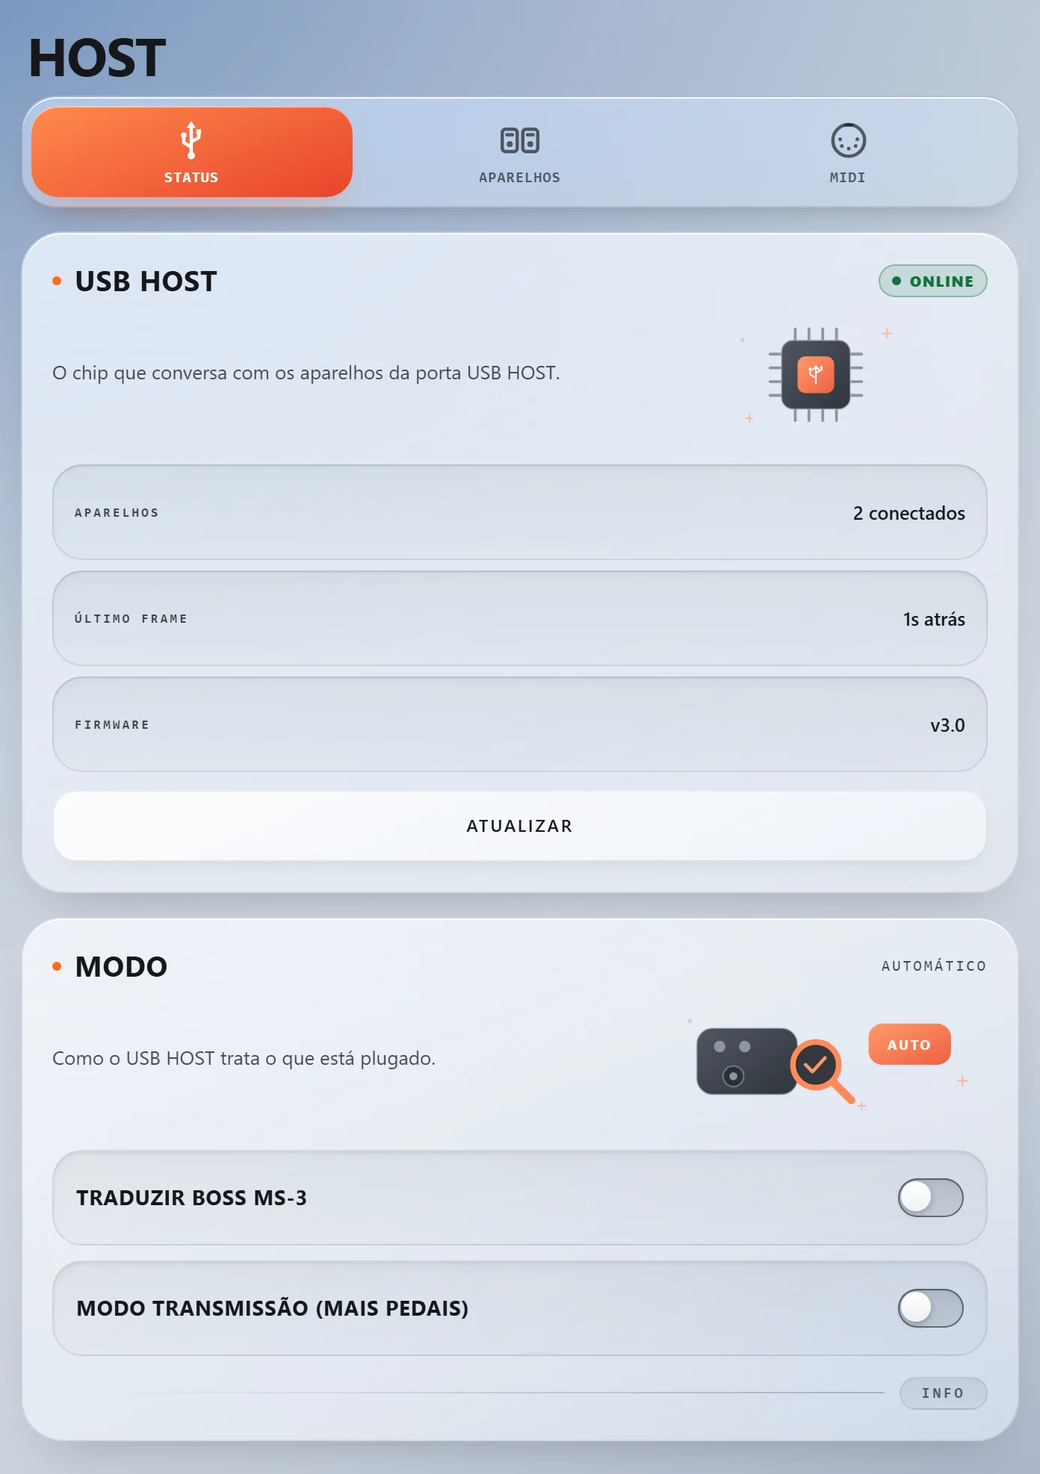
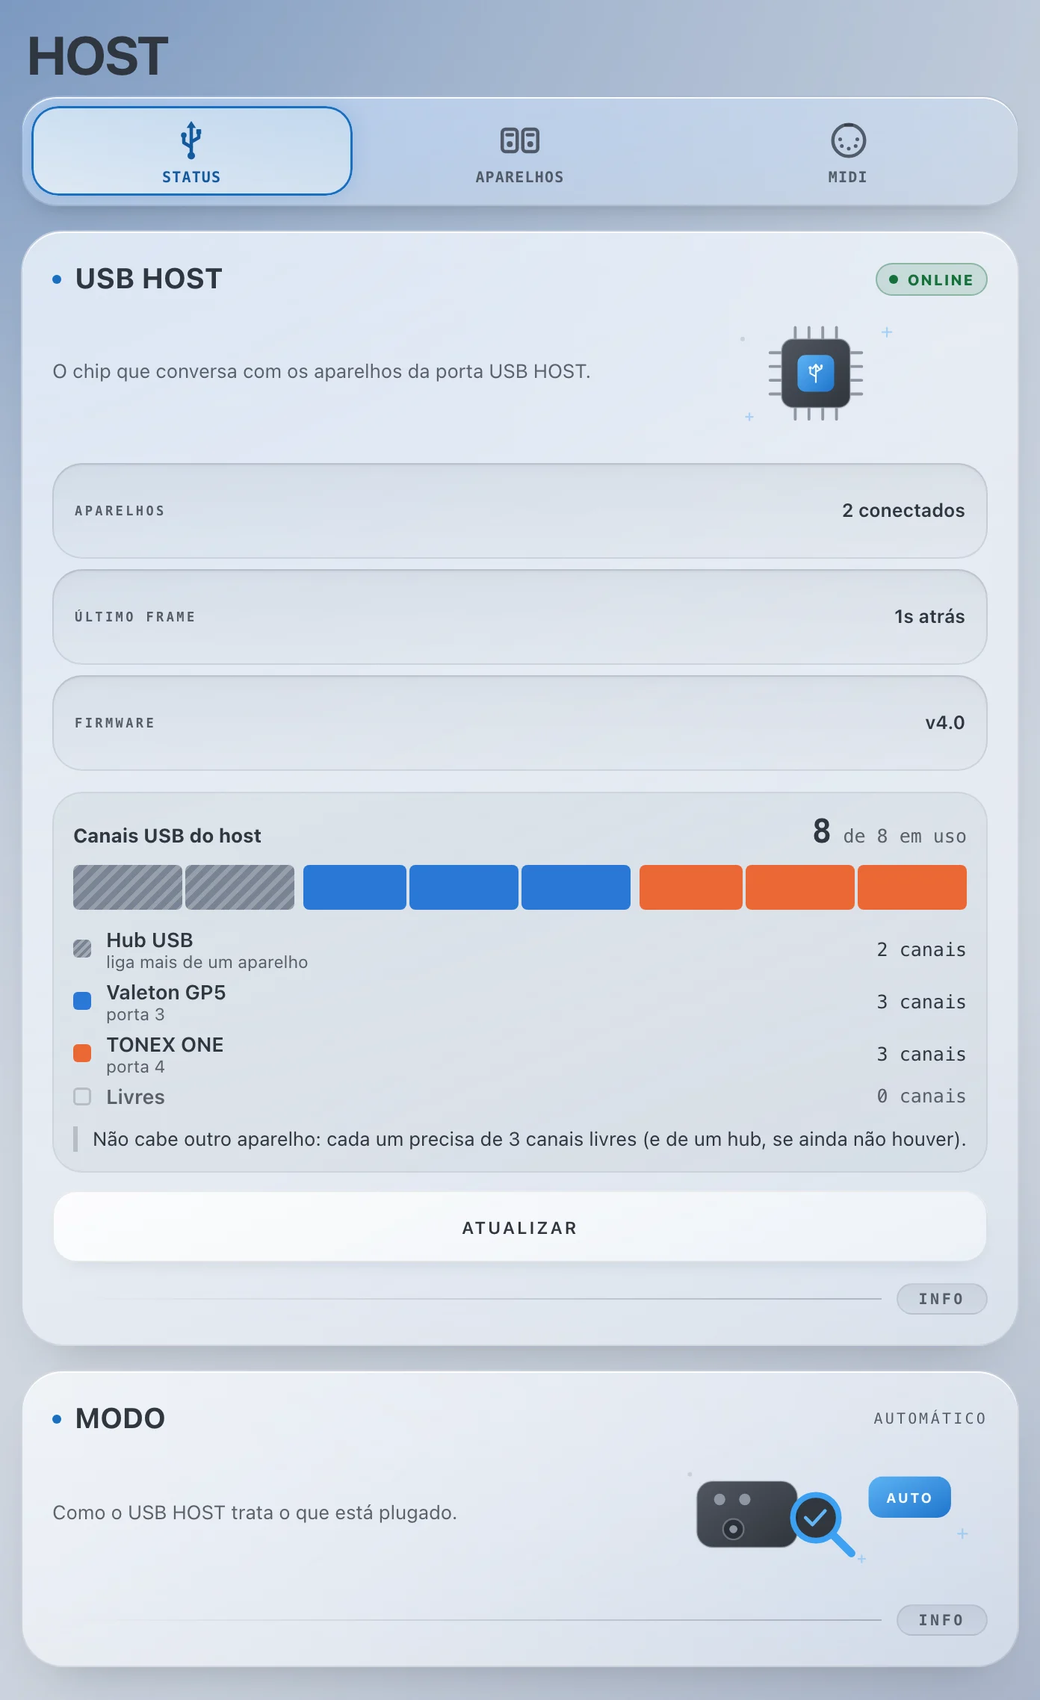
manual 2026-11-05 11:43

diff --git a/js/content.js b/js/content.js
@@ -7429,9 +7429,9 @@ const MN_CONTENT = {
         "es": "límite"
        },
        "desc": {
-        "pt": "<p>Num hub USB cabem dois aparelhos — por exemplo GP-5 + TONEX ONE. A <strong>Nano Cortex</strong> precisa de mais canais USB e funciona <strong>sozinha</strong> no USB Host.</p>",
-        "en": "<p>A USB hub fits two devices — for example GP-5 + TONEX ONE. The <strong>Nano Cortex</strong> needs more USB channels and works <strong>on its own</strong> on the USB Host.</p>",
-        "es": "<p>En un hub USB caben dos aparatos — por ejemplo GP-5 + TONEX ONE. La <strong>Nano Cortex</strong> necesita más canales USB y funciona <strong>sola</strong> en el USB Host.</p>"
+        "pt": "<p>Num hub USB cabem dois aparelhos — por exemplo GP-5 + TONEX ONE. A <strong>Nano Cortex</strong> precisa de mais canais USB e funciona <strong>sozinha</strong> no USB Host. Em CONFIGURAÇÕES › HOST › STATUS, uma barra mostra quantos canais cada aparelho ocupa.</p>",
+        "en": "<p>A USB hub fits two devices — for example GP-5 + TONEX ONE. The <strong>Nano Cortex</strong> needs more USB channels and works <strong>on its own</strong> on the USB Host. In SETTINGS › HOST › STATUS, a bar shows how many channels each device takes.</p>",
+        "es": "<p>En un hub USB caben dos aparatos — por ejemplo GP-5 + TONEX ONE. La <strong>Nano Cortex</strong> necesita más canales USB y funciona <strong>sola</strong> en el USB Host. En CONFIGURACIÓN › HOST › ESTADO, una barra muestra cuántos canales ocupa cada equipo.</p>"
        }
       }
      ]
@@ -7595,9 +7595,9 @@ const MN_CONTENT = {
      ],
      "notes": [
       {
-       "pt": "Com o <strong>Modo transmissão</strong> do USB Host ligado (CONFIGURAÇÕES › HOST › STATUS), o editor da GP-5 fica indisponível: sem ele o host não consegue ler o preset.",
-       "en": "With the USB Host's <strong>Transmit-only mode</strong> on (SETTINGS › HOST › STATUS), the GP-5 editor is unavailable: in that mode the host can't read the preset.",
-       "es": "Con el <strong>Modo transmisión</strong> del USB Host activado (CONFIGURACIÓN › HOST › ESTADO), el editor de la GP-5 no está disponible: en ese modo el host no puede leer el preset."
+       "pt": "Num USB Host antigo que ainda tenha o <strong>Modo transmissão</strong> ligado, o editor da GP-5 fica indisponível: CONFIGURAÇÕES › HOST › STATUS avisa e tem o botão para desligá-lo. A partir do USB Host 4.0 esse modo não existe mais.",
+       "en": "On an older USB Host that still has <strong>Transmit-only mode</strong> on, the GP-5 editor is unavailable: SETTINGS › HOST › STATUS warns you and has the button to turn it off. From USB Host 4.0 on, that mode no longer exists.",
+       "es": "En un USB Host antiguo que todavía tenga el <strong>Modo transmisión</strong> activado, el editor de la GP-5 no está disponible: CONFIGURACIÓN › HOST › ESTADO lo avisa y tiene el botón para apagarlo. Desde el USB Host 4.0 ese modo ya no existe."
       }
      ]
     },
@@ -7963,9 +7963,9 @@ const MN_CONTENT = {
         "es": "guía"
        },
        "desc": {
-        "pt": "<p>Confira: (1) a tela PRESET está em modo PRESET (os atalhos não aparecem no LIVE); (2) o editor está conectado à controladora, não no modo offline; (3) o aparelho aparece em <strong>CONFIGURAÇÕES › HOST › APARELHOS</strong> como conectado; (4) o modelo da placa é BFMIDI-3 ou BFMIDI-S3; (5) na GP-5, o <strong>Modo transmissão</strong> está desligado.</p>",
-        "en": "<p>Check: (1) the PRESET screen is in PRESET mode (shortcuts don’t show in LIVE); (2) the editor is connected to the controller, not in offline mode; (3) the device shows up as connected in <strong>SETTINGS › HOST › DEVICES</strong>; (4) the board model is BFMIDI-3 or BFMIDI-S3; (5) for the GP-5, <strong>Transmit-only mode</strong> is off.</p>",
-        "es": "<p>Revisa: (1) la pantalla PRESET está en modo PRESET (los atajos no aparecen en LIVE); (2) el editor está conectado a la controladora, no en el modo offline; (3) el equipo aparece como conectado en <strong>CONFIGURACIÓN › HOST › APARATOS</strong>; (4) el modelo de la placa es BFMIDI-3 o BFMIDI-S3; (5) en la GP-5, el <strong>Modo transmisión</strong> está apagado.</p>"
+        "pt": "<p>Confira: (1) a tela PRESET está em modo PRESET (os atalhos não aparecem no LIVE); (2) o editor está conectado à controladora, não no modo offline; (3) o aparelho aparece em <strong>CONFIGURAÇÕES › HOST › APARELHOS</strong> como conectado; (4) o modelo da placa é BFMIDI-3 ou BFMIDI-S3; (5) na GP-5 com um USB Host antigo, o <strong>Modo transmissão</strong> está desligado (CONFIGURAÇÕES › HOST › STATUS avisa).</p>",
+        "en": "<p>Check: (1) the PRESET screen is in PRESET mode (shortcuts don’t show in LIVE); (2) the editor is connected to the controller, not in offline mode; (3) the device shows up as connected in <strong>SETTINGS › HOST › DEVICES</strong>; (4) the board model is BFMIDI-3 or BFMIDI-S3; (5) for the GP-5 with an older USB Host, <strong>Transmit-only mode</strong> is off (SETTINGS › HOST › STATUS warns you).</p>",
+        "es": "<p>Revisa: (1) la pantalla PRESET está en modo PRESET (los atajos no aparecen en LIVE); (2) el editor está conectado a la controladora, no en el modo offline; (3) el equipo aparece como conectado en <strong>CONFIGURACIÓN › HOST › APARATOS</strong>; (4) el modelo de la placa es BFMIDI-3 o BFMIDI-S3; (5) en la GP-5 con un USB Host antiguo, el <strong>Modo transmisión</strong> está apagado (CONFIGURACIÓN › HOST › ESTADO lo avisa).</p>"
        }
       },
       {
@@ -8294,9 +8294,9 @@ const MN_CONTENT = {
         "es": "engranaje"
        },
        "desc": {
-        "pt": "<p>A engrenagem no fim de cada linha manda um CC naquele canal <strong>AO ENTRAR</strong> e <strong>AO SAIR</strong> do modo LIVE (valores ajustáveis). Serve para aparelhos com “modo cena” e “modo stomp” acompanharem a controladora.</p>",
-        "en": "<p>The gear at the end of each row sends a CC on that channel when entering (<strong>ON ENTER</strong>) and leaving (<strong>ON EXIT</strong>) LIVE mode (adjustable values). It lets devices with a “scene mode” and a “stomp mode” follow the controller.</p>",
-        "es": "<p>El engranaje al final de cada fila envía un CC en ese canal <strong>AL ENTRAR</strong> y <strong>AL SALIR</strong> del modo LIVE (valores ajustables). Sirve para que los equipos con “modo escena” y “modo stomp” acompañen a la controladora.</p>"
+        "pt": "<p>A engrenagem no fim de cada linha manda um CC naquele canal <strong>AO ENTRAR</strong> e <strong>AO SAIR</strong> do modo LIVE (valores ajustáveis). Serve para aparelhos com “modo cena” e “modo stomp” acompanharem a controladora. A lista de CC mostra os nomes do aparelho escolhido naquele canal.</p>",
+        "en": "<p>The gear at the end of each row sends a CC on that channel when entering (<strong>ON ENTER</strong>) and leaving (<strong>ON EXIT</strong>) LIVE mode (adjustable values). It lets devices with a “scene mode” and a “stomp mode” follow the controller. The CC list shows the names of the device chosen on that channel.</p>",
+        "es": "<p>El engranaje al final de cada fila envía un CC en ese canal <strong>AL ENTRAR</strong> y <strong>AL SALIR</strong> del modo LIVE (valores ajustables). Sirve para que los equipos con “modo escena” y “modo stomp” acompañen a la controladora. La lista de CC muestra los nombres del equipo elegido en ese canal.</p>"
        }
       },
       {
@@ -9546,16 +9546,16 @@ const MN_CONTENT = {
         "es": "pestaña ESTADO"
        },
        "desc": {
-        "pt": "<p>O USB Host reconhece sozinho o que foi plugado: pedais MIDI USB comuns e a IK TONEX ONE funcionam juntos, até <strong>dois aparelhos</strong> num hub. Não há modo para escolher.</p>",
-        "en": "<p>The USB Host recognizes what you plugged in on its own: regular USB MIDI pedals and the IK TONEX ONE work together, up to <strong>two devices</strong> on a hub. There's no mode to choose.</p>",
-        "es": "<p>El USB Host reconoce solo lo que conectaste: los pedales MIDI USB comunes y la IK TONEX ONE funcionan juntos, hasta <strong>dos equipos</strong> en un hub. No hay modo que elegir.</p>"
+        "pt": "<p>O USB Host reconhece sozinho o que foi plugado: pedais MIDI USB comuns e a IK TONEX ONE funcionam juntos, até <strong>dois aparelhos</strong> num hub. Não há modo para escolher. O <strong>BOSS MS-3</strong> também é reconhecido sozinho, e o host traduz os comandos para o formato da Boss.</p>",
+        "en": "<p>The USB Host recognizes what you plugged in on its own: regular USB MIDI pedals and the IK TONEX ONE work together, up to <strong>two devices</strong> on a hub. There's no mode to choose. The <strong>BOSS MS-3</strong> is recognized on its own too, and the host translates the commands into Boss's format.</p>",
+        "es": "<p>El USB Host reconoce solo lo que conectaste: los pedales MIDI USB comunes y la IK TONEX ONE funcionan juntos, hasta <strong>dos equipos</strong> en un hub. No hay modo que elegir. El <strong>BOSS MS-3</strong> también se reconoce solo, y el host traduce los comandos al formato de Boss.</p>"
        }
       },
       {
        "name": {
-        "pt": "Traduzir Boss MS-3",
-        "en": "Translate Boss MS-3",
-        "es": "Traducir Boss MS-3"
+        "pt": "Canais USB",
+        "en": "USB channels",
+        "es": "Canales USB"
        },
        "type": {
         "pt": "aba STATUS",
@@ -9563,26 +9563,9 @@ const MN_CONTENT = {
         "es": "pestaña ESTADO"
        },
        "desc": {
-        "pt": "<p>O MS-3 (e a Katana) não entendem CC de parâmetro comum: o host converte para o formato da Boss. Ligue só com eles plugados.</p>",
-        "en": "<p>The MS-3 (and the Katana) don't understand regular parameter CCs: the host converts them to Boss's format. Only turn it on with them plugged in.</p>",
-        "es": "<p>El MS-3 (y el Katana) no entienden los CC de parámetro comunes: el host los convierte al formato de Boss. Actívalo solo con ellos conectados.</p>"
-       }
-      },
-      {
-       "name": {
-        "pt": "Modo transmissão (mais pedais)",
-        "en": "Transmit-only mode (more pedals)",
-        "es": "Modo transmisión (más pedales)"
-       },
-       "type": {
-        "pt": "aba STATUS",
-        "en": "STATUS tab",
-        "es": "pestaña ESTADO"
-       },
-       "desc": {
-        "pt": "<p>Deixa o host mandar MIDI para até <strong>quatro</strong> pedais num hub, em vez de dois — em troca, nada volta dos pedais: afinador, nome do rig, SEGUIR O KEMPER e o editor da GP-5 param de funcionar. Com uma TONEX ONE plugada o limite continua dois.</p>",
-        "en": "<p>Lets the host send MIDI to up to <strong>four</strong> pedals on a hub, instead of two — in exchange, nothing comes back from the pedals: the tuner, the rig name, FOLLOW THE KEMPER and the GP-5 editor stop working. With a TONEX ONE plugged in, the limit stays at two.</p>",
-        "es": "<p>Permite que el host envíe MIDI a hasta <strong>cuatro</strong> pedales en un hub, en lugar de dos — a cambio, nada vuelve de los pedales: el afinador, el nombre del rig, SEGUIR EL KEMPER y el editor de la GP-5 dejan de funcionar. Con una TONEX ONE conectada, el límite sigue siendo dos.</p>"
+        "pt": "<p>Uma barra com os <strong>8 canais USB</strong> do host e quanto cada aparelho ocupa: o hub 2, um pedal comum ou uma TONEX ONE 3, a Nano Cortex 4. Embaixo, os canais livres e o que ainda cabe. É por isso que num hub cabem dois aparelhos de 3 canais.</p>",
+        "en": "<p>A bar with the host's <strong>8 USB channels</strong> and how many each device takes: the hub 2, a regular pedal or a TONEX ONE 3, the Nano Cortex 4. Below it, the free channels and what still fits. That's why a hub fits two 3-channel devices.</p>",
+        "es": "<p>Una barra con los <strong>8 canales USB</strong> del host y cuántos ocupa cada equipo: el hub 2, un pedal común o una TONEX ONE 3, la Nano Cortex 4. Debajo, los canales libres y lo que todavía cabe. Por eso en un hub caben dos equipos de 3 canales.</p>"
        }
       },
       {
@@ -9597,9 +9580,9 @@ const MN_CONTENT = {
         "es": "pestaña APARATOS"
        },
        "desc": {
-        "pt": "<p>Fabricante, produto, porta do hub, ID USB, status e o <strong>canal</strong> que aquele aparelho escuta. Cada TONEX ONE tem o seu canal; os pedais MIDI comuns dividem um filtro. GP-5, TONEX ONE e Nano Cortex ganham o botão <strong>EDITAR PRESET</strong>.</p><p>Se o filtro deixa passar só um canal e o aparelho está em outro no Modo Amigável (ou os seus comandos saem em outro), o card avisa que nada chega a ele e oferece <strong>AJUSTAR O FILTRO PARA O CANAL n</strong>.</p>",
-        "en": "<p>Manufacturer, product, hub port, USB ID, status and the <strong>channel</strong> that device listens on. Each TONEX ONE has its own channel; regular MIDI pedals share one filter. GP-5, TONEX ONE and Nano Cortex get the <strong>EDIT PRESET</strong> button.</p><p>If the filter only lets one channel through and the device is on another one in Friendly Mode (or your commands go out on another one), the card warns that nothing reaches it and offers <strong>SET THE FILTER TO CHANNEL n</strong>.</p>",
-        "es": "<p>Fabricante, producto, puerto del hub, ID USB, estado y el <strong>canal</strong> que escucha ese equipo. Cada TONEX ONE tiene su propio canal; los pedales MIDI comunes comparten un filtro. GP-5, TONEX ONE y Nano Cortex tienen el botón <strong>EDITAR PRESET</strong>.</p><p>Si el filtro deja pasar un solo canal y el equipo está en otro en el Modo Amigable (o tus comandos salen en otro), la tarjeta avisa que no le llega nada y ofrece <strong>AJUSTAR EL FILTRO AL CANAL n</strong>.</p>"
+        "pt": "<p>Fabricante, produto, porta do hub, ID USB, status e o <strong>canal</strong> que aquele aparelho escuta. <strong>Cada aparelho tem o seu canal</strong>: mudar o da GP-5 não mexe no de outro pedal. O canal fica guardado pelo modelo do aparelho — dois pedais iguais dividem o mesmo canal —, e o pedal que nunca teve um canal escolhido segue o filtro padrão. Com um USB Host anterior ao 4.0, os pedais MIDI comuns dividem um filtro só, e o card avisa. GP-5, TONEX ONE e Nano Cortex ganham o botão <strong>EDITAR PRESET</strong>.</p><p>Se o filtro deixa passar só um canal e o aparelho está em outro no Modo Amigável (ou os seus comandos saem em outro), o card avisa que nada chega a ele e oferece <strong>AJUSTAR O FILTRO PARA O CANAL n</strong>.</p>",
+        "en": "<p>Manufacturer, product, hub port, USB ID, status and the <strong>channel</strong> that device listens on. <strong>Each device has its own channel</strong>: changing the GP-5's doesn't touch another pedal's. The channel is kept by device model — two identical pedals share the same channel —, and a pedal that never had a channel chosen follows the default filter. With a USB Host older than 4.0, regular MIDI pedals share a single filter, and the card says so. GP-5, TONEX ONE and Nano Cortex get the <strong>EDIT PRESET</strong> button.</p><p>If the filter only lets one channel through and the device is on another one in Friendly Mode (or your commands go out on another one), the card warns that nothing reaches it and offers <strong>SET THE FILTER TO CHANNEL n</strong>.</p>",
+        "es": "<p>Fabricante, producto, puerto del hub, ID USB, estado y el <strong>canal</strong> que escucha ese equipo. <strong>Cada equipo tiene su propio canal</strong>: cambiar el de la GP-5 no toca el de otro pedal. El canal se guarda por modelo del equipo — dos pedales iguales comparten el mismo canal —, y el pedal que nunca tuvo un canal elegido sigue el filtro predeterminado. Con un USB Host anterior a la 4.0, los pedales MIDI comunes comparten un solo filtro, y la tarjeta lo avisa. GP-5, TONEX ONE y Nano Cortex tienen el botón <strong>EDITAR PRESET</strong>.</p><p>Si el filtro deja pasar un solo canal y el equipo está en otro en el Modo Amigable (o tus comandos salen en otro), la tarjeta avisa que no le llega nada y ofrece <strong>AJUSTAR EL FILTRO AL CANAL n</strong>.</p>"
        }
       },
       {
@@ -9630,6 +9613,11 @@ const MN_CONTENT = {
        "pt": "A Nano Cortex funciona sozinha no USB Host: ela não cabe num hub junto com outro aparelho.",
        "en": "The Nano Cortex works on its own on the USB Host: it doesn't fit on a hub alongside another device.",
        "es": "La Nano Cortex funciona sola en el USB Host: no cabe en un hub junto con otro equipo."
+      },
+      {
+       "pt": "Desde o USB Host 4.0, a <strong>Hotone Ampero II Stomp</strong> funciona ligada direto na porta USB HOST, sem hub.",
+       "en": "Since USB Host 4.0, the <strong>Hotone Ampero II Stomp</strong> works plugged straight into the USB HOST port, without a hub.",
+       "es": "Desde el USB Host 4.0, la <strong>Hotone Ampero II Stomp</strong> funciona conectada directo al puerto USB HOST, sin hub."
       }
      ]
     },
@@ -10602,9 +10590,9 @@ const MN_CONTENT = {
       },
       {
        "name": {
-        "pt": "BOSS MS-3 e Katana",
-        "en": "BOSS MS-3 and Katana",
-        "es": "BOSS MS-3 y Katana"
+        "pt": "BOSS MS-3",
+        "en": "BOSS MS-3",
+        "es": "BOSS MS-3"
        },
        "type": {
         "pt": "integração",
@@ -10612,9 +10600,9 @@ const MN_CONTENT = {
         "es": "integración"
        },
        "desc": {
-        "pt": "<p>Com <strong>Traduzir Boss MS-3</strong> ligado (CONFIGURAÇÕES › HOST › STATUS), o USB Host converte os comandos para o formato próprio da Boss.</p>",
-        "en": "<p>With <strong>Translate Boss MS-3</strong> turned on (SETTINGS › HOST › STATUS), the USB Host converts commands into Boss's own format.</p>",
-        "es": "<p>Con <strong>Traducir Boss MS-3</strong> activado (CONFIGURACIÓN › HOST › ESTADO), el USB Host convierte los comandos al formato propio de Boss.</p>"
+        "pt": "<p>O MS-3 não entende CC de parâmetro comum. Plugado no USB Host, ele é reconhecido sozinho e o host converte os comandos para o formato próprio da Boss — não há chave para ligar. Outros aparelhos Roland e BOSS, como a Katana, recebem os CC e PC como qualquer pedal comum. Exige o USB Host 4.0.</p>",
+        "en": "<p>The MS-3 doesn't understand regular parameter CCs. Plugged into the USB Host, it's recognized on its own and the host converts the commands into Boss's own format — there's no switch to turn on. Other Roland and BOSS devices, such as the Katana, get CCs and PCs like any regular pedal. Requires USB Host 4.0.</p>",
+        "es": "<p>El MS-3 no entiende los CC de parámetro comunes. Conectado al USB Host, se reconoce solo y el host convierte los comandos al formato propio de Boss — no hay interruptor que activar. Otros equipos Roland y BOSS, como el Katana, reciben los CC y PC como cualquier pedal común. Requiere el USB Host 4.0.</p>"
        }
       }
      ],
@@ -10652,9 +10640,9 @@ const MN_CONTENT = {
         "es": "guía"
        },
        "desc": {
-        "pt": "<p>1. O cabo vai da BFMiDi para a pedaleira (MIDI OUT → MIDI IN)?<br>2. O canal do preset é o que a pedaleira escuta?<br>3. Use o <strong>DISPARO MIDI</strong> em CONFIGURAÇÕES › TESTES › DISPARO: se ali funciona, o problema está no preset; se nem ali, no cabo ou no aparelho. Cabo TRS? Nas placas com entrada EXT SW, teste o cabo em CONFIGURAÇÕES › TESTES › HARDWARE › <strong>CABO</strong>.<br>4. A pedaleira perde as primeiras mensagens depois de trocar de preset? Use os <strong>TEMPOS DE DISPARO</strong> em CONFIGURAÇÕES › HARDWARE › TEMPOS.</p>",
-        "en": "<p>1. Does the cable go from the BFMiDi to the effects unit (MIDI OUT → MIDI IN)?<br>2. Is the preset's channel the one the effects unit listens to?<br>3. Use <strong>MIDI SEND</strong> in SETTINGS › TESTS › SEND: if it works there, the problem is in the preset; if it doesn't work even there, it's the cable or the device. TRS cable? On boards with an EXT SW input, test the cable in SETTINGS › TESTS › HARDWARE › <strong>CABLE</strong>.<br>4. Does the effects unit miss the first messages after a preset change? Use <strong>SEND TIMING</strong> in SETTINGS › HARDWARE › TIMING.</p>",
-        "es": "<p>1. ¿El cable va de la BFMiDi a la pedalera (MIDI OUT → MIDI IN)?<br>2. ¿El canal del preset es el que escucha la pedalera?<br>3. Usa el <strong>DISPARO MIDI</strong> en CONFIGURACIÓN › PRUEBAS › ENVÍO: si ahí funciona, el problema está en el preset; si ni ahí funciona, está en el cable o en el equipo. ¿Cable TRS? En las placas con entrada EXT SW, prueba el cable en CONFIGURACIÓN › PRUEBAS › HARDWARE › <strong>CABLE</strong>.<br>4. ¿La pedalera pierde los primeros mensajes después de cambiar de preset? Usa los <strong>TIEMPOS DE ENVÍO</strong> en CONFIGURACIÓN › HARDWARE › TIEMPOS.</p>"
+        "pt": "<p>1. O cabo vai da BFMiDi para a pedaleira (MIDI OUT → MIDI IN)?<br>2. O canal do preset é o que a pedaleira escuta?<br>3. Use o <strong>DISPARO MIDI</strong> em CONFIGURAÇÕES › TESTES › DISPARO: se ali funciona, o problema está no preset; se nem ali, no cabo ou no aparelho. Cabo TRS? Nas placas com entrada EXT SW, teste o cabo em CONFIGURAÇÕES › TESTES › HARDWARE › <strong>CABO</strong>.<br>4. A pedaleira perde as primeiras mensagens depois de trocar de preset? Use os <strong>TEMPOS DE DISPARO</strong> em CONFIGURAÇÕES › HARDWARE › TEMPOS.<br>5. Pedaleira ligada no USB HOST? Confira o canal do filtro dela no card do aparelho, em CONFIGURAÇÕES › HOST › APARELHOS.</p>",
+        "en": "<p>1. Does the cable go from the BFMiDi to the effects unit (MIDI OUT → MIDI IN)?<br>2. Is the preset's channel the one the effects unit listens to?<br>3. Use <strong>MIDI SEND</strong> in SETTINGS › TESTS › SEND: if it works there, the problem is in the preset; if it doesn't work even there, it's the cable or the device. TRS cable? On boards with an EXT SW input, test the cable in SETTINGS › TESTS › HARDWARE › <strong>CABLE</strong>.<br>4. Does the effects unit miss the first messages after a preset change? Use <strong>SEND TIMING</strong> in SETTINGS › HARDWARE › TIMING.<br>5. Effects unit plugged into the USB HOST? Check its filter channel on the device card, in SETTINGS › HOST › DEVICES.</p>",
+        "es": "<p>1. ¿El cable va de la BFMiDi a la pedalera (MIDI OUT → MIDI IN)?<br>2. ¿El canal del preset es el que escucha la pedalera?<br>3. Usa el <strong>DISPARO MIDI</strong> en CONFIGURACIÓN › PRUEBAS › ENVÍO: si ahí funciona, el problema está en el preset; si ni ahí funciona, está en el cable o en el equipo. ¿Cable TRS? En las placas con entrada EXT SW, prueba el cable en CONFIGURACIÓN › PRUEBAS › HARDWARE › <strong>CABLE</strong>.<br>4. ¿La pedalera pierde los primeros mensajes después de cambiar de preset? Usa los <strong>TIEMPOS DE ENVÍO</strong> en CONFIGURACIÓN › HARDWARE › TIEMPOS.<br>5. ¿La pedalera está en el USB HOST? Revisa el canal de su filtro en la tarjeta del equipo, en CONFIGURACIÓN › HOST › APARATOS.</p>"
        }
       },
       {

diff --git a/js/snapshots.js b/js/snapshots.js
@@ -1,4 +1,4 @@
-/* BFMiDi · Manual — PRINTS do editor (v15.3).
+/* BFMiDi · Manual — PRINTS do editor (v15.6).
    Gerado por tools/capture_shots.mjs. NAO editar a mao: quando a tela
    do editor mudar, rode a captura de novo.
    { img, light?, w, h, kind?, hot: { seletor: [x, y, w, h] em fracao } } */
@@ -826,7 +826,7 @@ const MN_SHOTS = {
  "cfg-host": {
   "img": "img/shots/cfg-host.webp",
   "w": 696,
-  "h": 987,
+  "h": 1138,
   "hot": {},
   "light": "img/shots/cfg-host.light.webp"
  },
